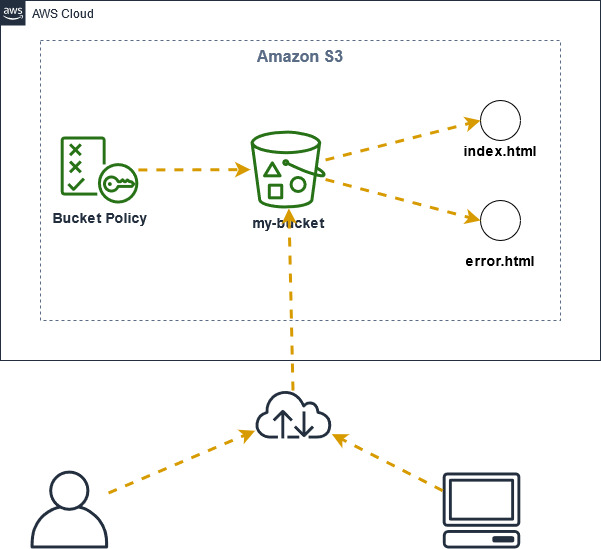
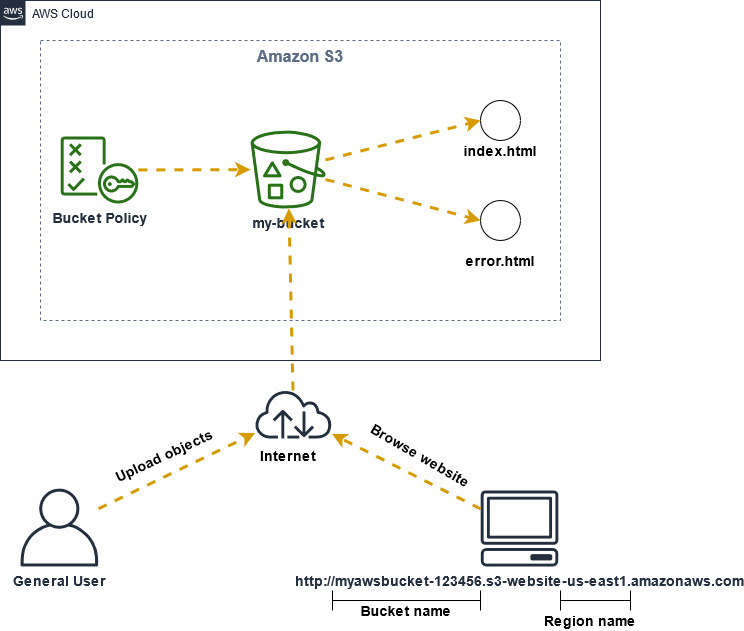
creating static website with amamzon s3
Finished documentation

diff --git a/01_create_static_web_static_using_amazon_s3/README.md b/01_create_static_web_static_using_amazon_s3/README.md
@@ -2,7 +2,49 @@
 
 Create and configure a simple static website. We will go through configuring that static website with a custom error page. This will demonstrate how to create a cost-efficient website hosting for sites that consist of files like HTML, CSS, JavaScript, fonts, and images.
 
-#### Actions
+## Project Diagram
+ ![alt text]( ./documents/diagram.jpg)
+
+## What is done
+The following steps are the ones implemented on Terraform in order to create the environment for the application to execute: 
 * Create S3 Bucket
 * Enable Static Website Hosting
 * Apply Bucket Policy
+
+## How to deploy
+Login to your AWS account and get the Credentials and create the EC2's Key Pairs.
+Then in the same place as the file 'main.tf':
+
+````
+# this will initiate Terraform on your project
+terraform init
+
+# this will findout what operations Terraform will perform
+terraform plan 
+
+# this will apply what is configure in your project
+terraform apply 
+````
+
+
+## Credentials Setup
+To find your credentials go to the places shown by the pictures:
+
+ ![alt text]( ./documents/aws_credentials_00.jpg "Account Menu")
+
+  ![alt text]( ./documentations/aws_credentials_01.jpg "Credentials")
+
+Set credentials on file main.tf and update:
+
+```
+provider "aws" {
+  region     = "us-west-1"
+  access_key = "xxxxxxxxxxxxxx"
+  secret_key = "xxxxxxxxxxxxxxxxxxxxxxxxxxxxxx"
+}
+````
+
+
+
+
+

diff --git a/README.md b/README.md
@@ -8,6 +8,13 @@ Terraform is a tool to construct all the artfacts needed in AWS.
 Here is a short description for all the projects in this repository
 
 ### 01. Create a static web server on Amazon S3
+Create and configure a simple static website
+**Actions**
+* create S3 Bucket
+* enable static webhosting
+* apply bucket policy
+
+
 
 
 
